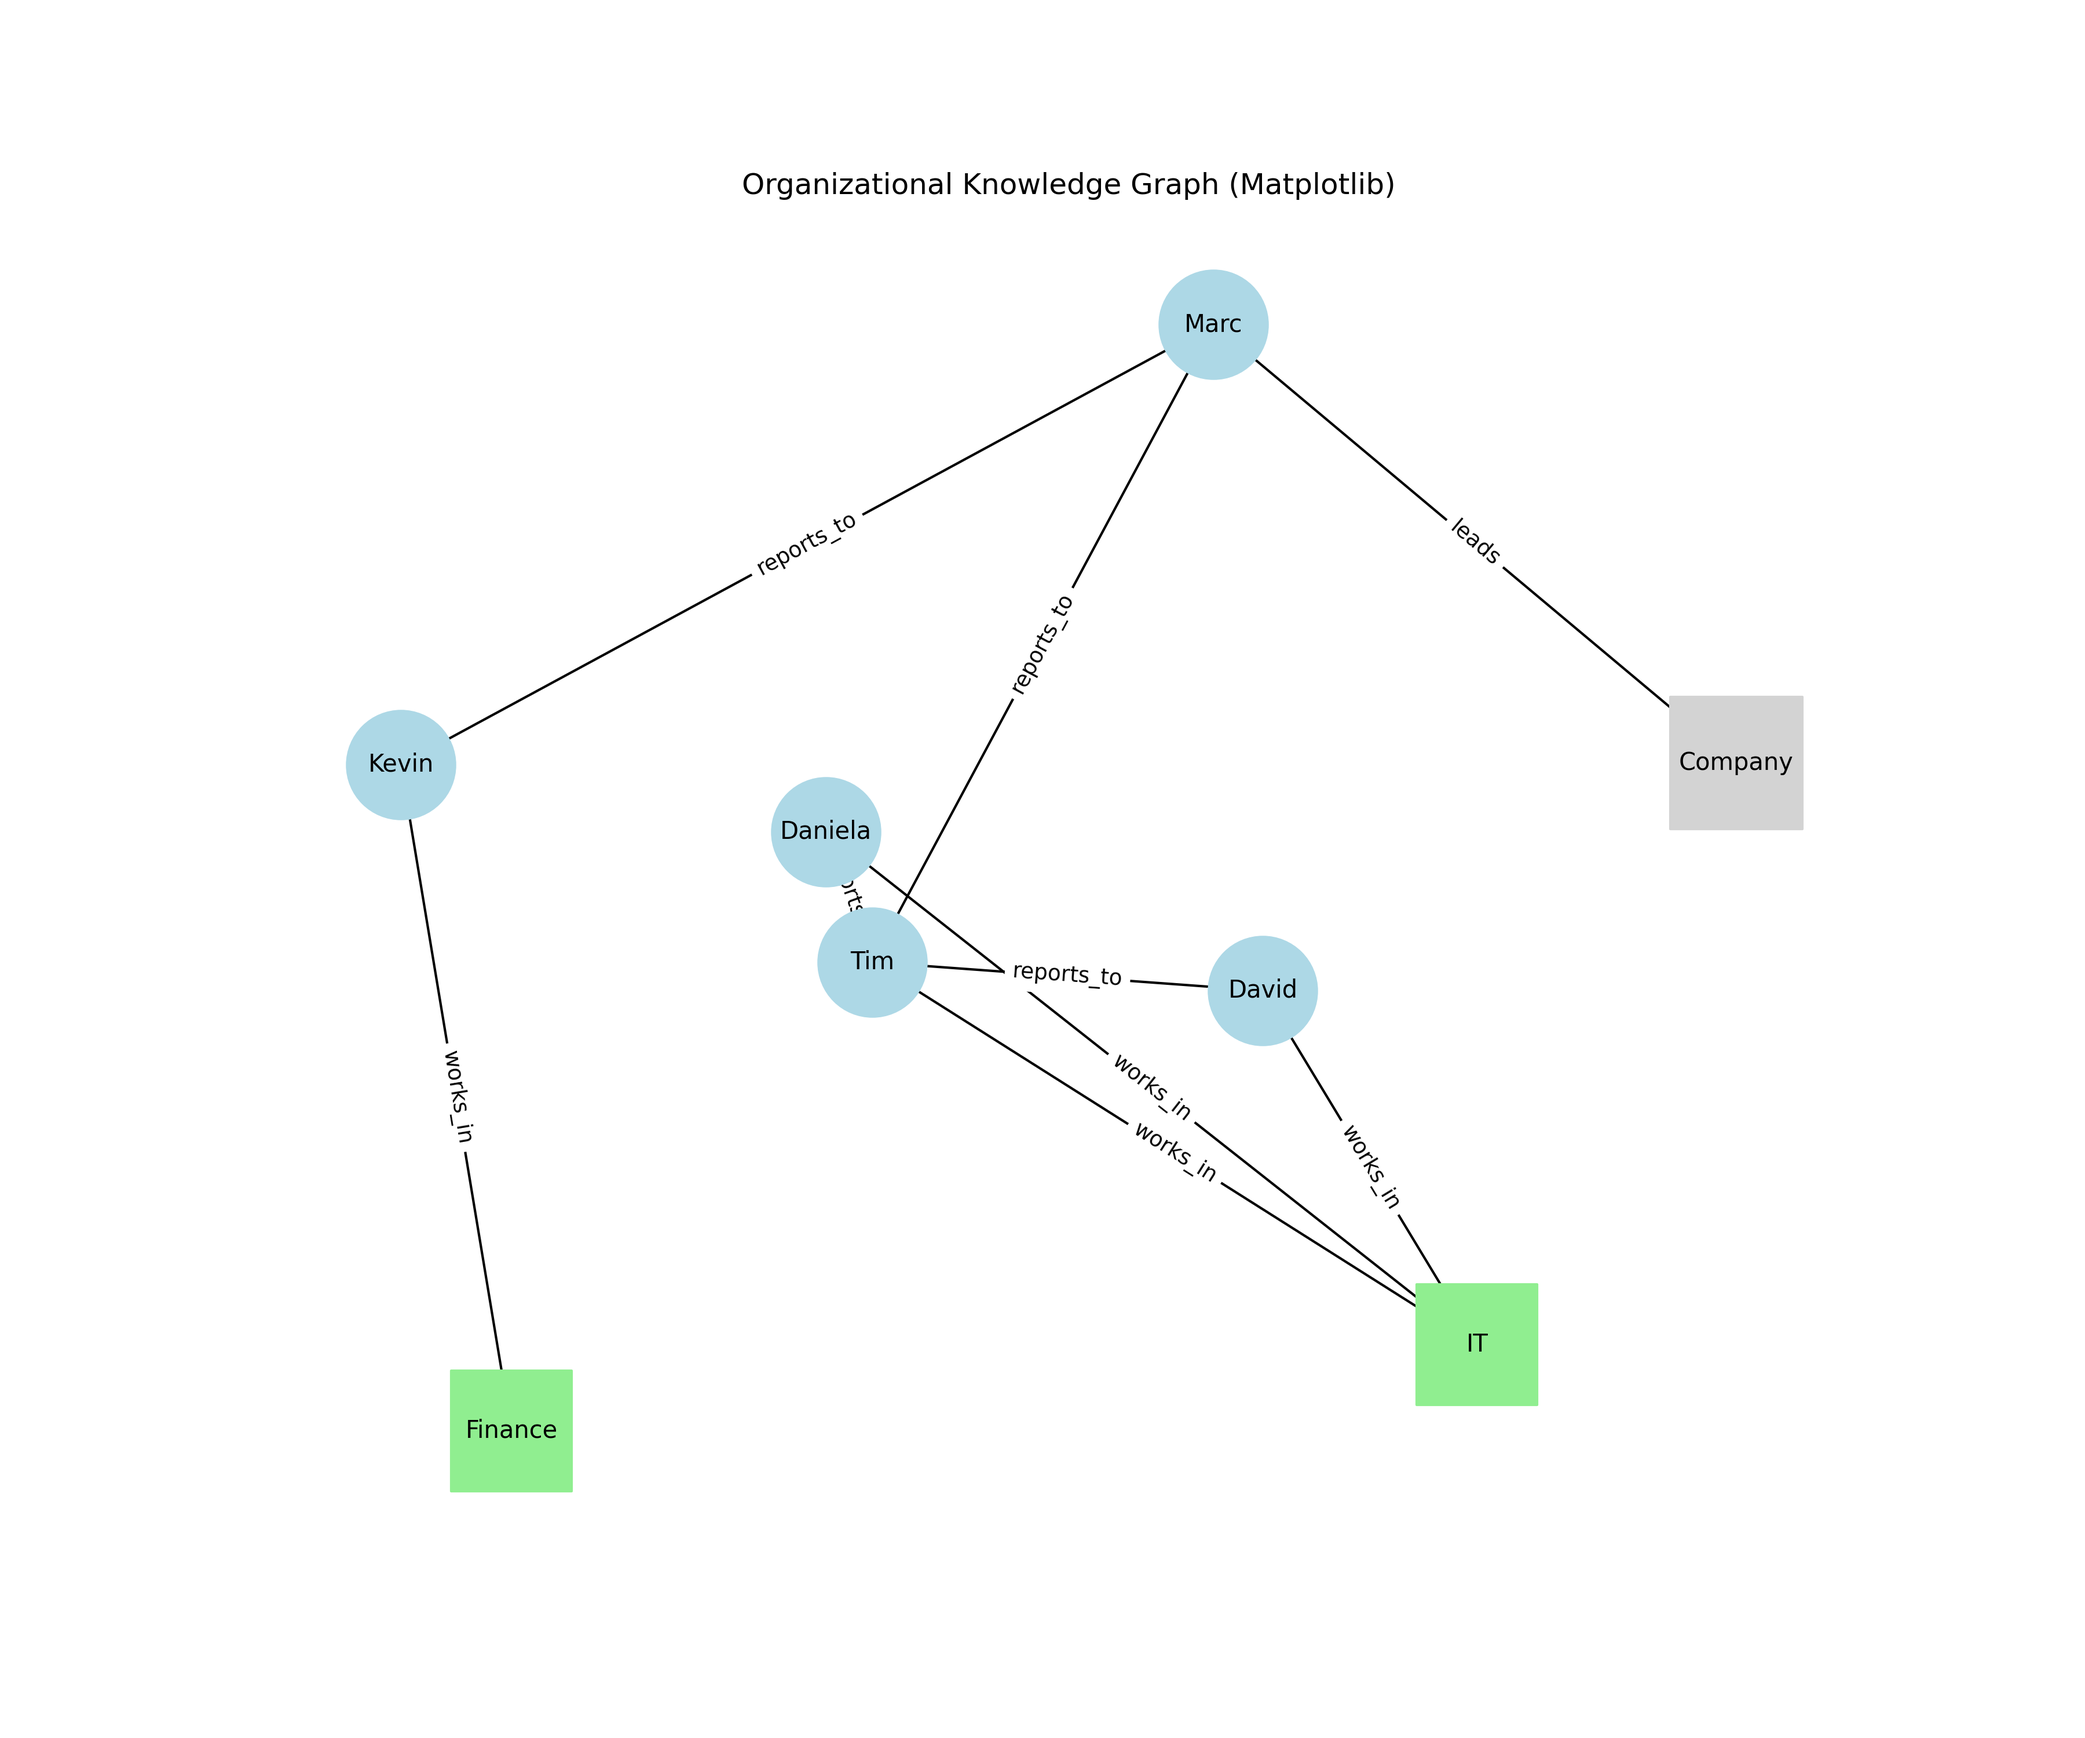
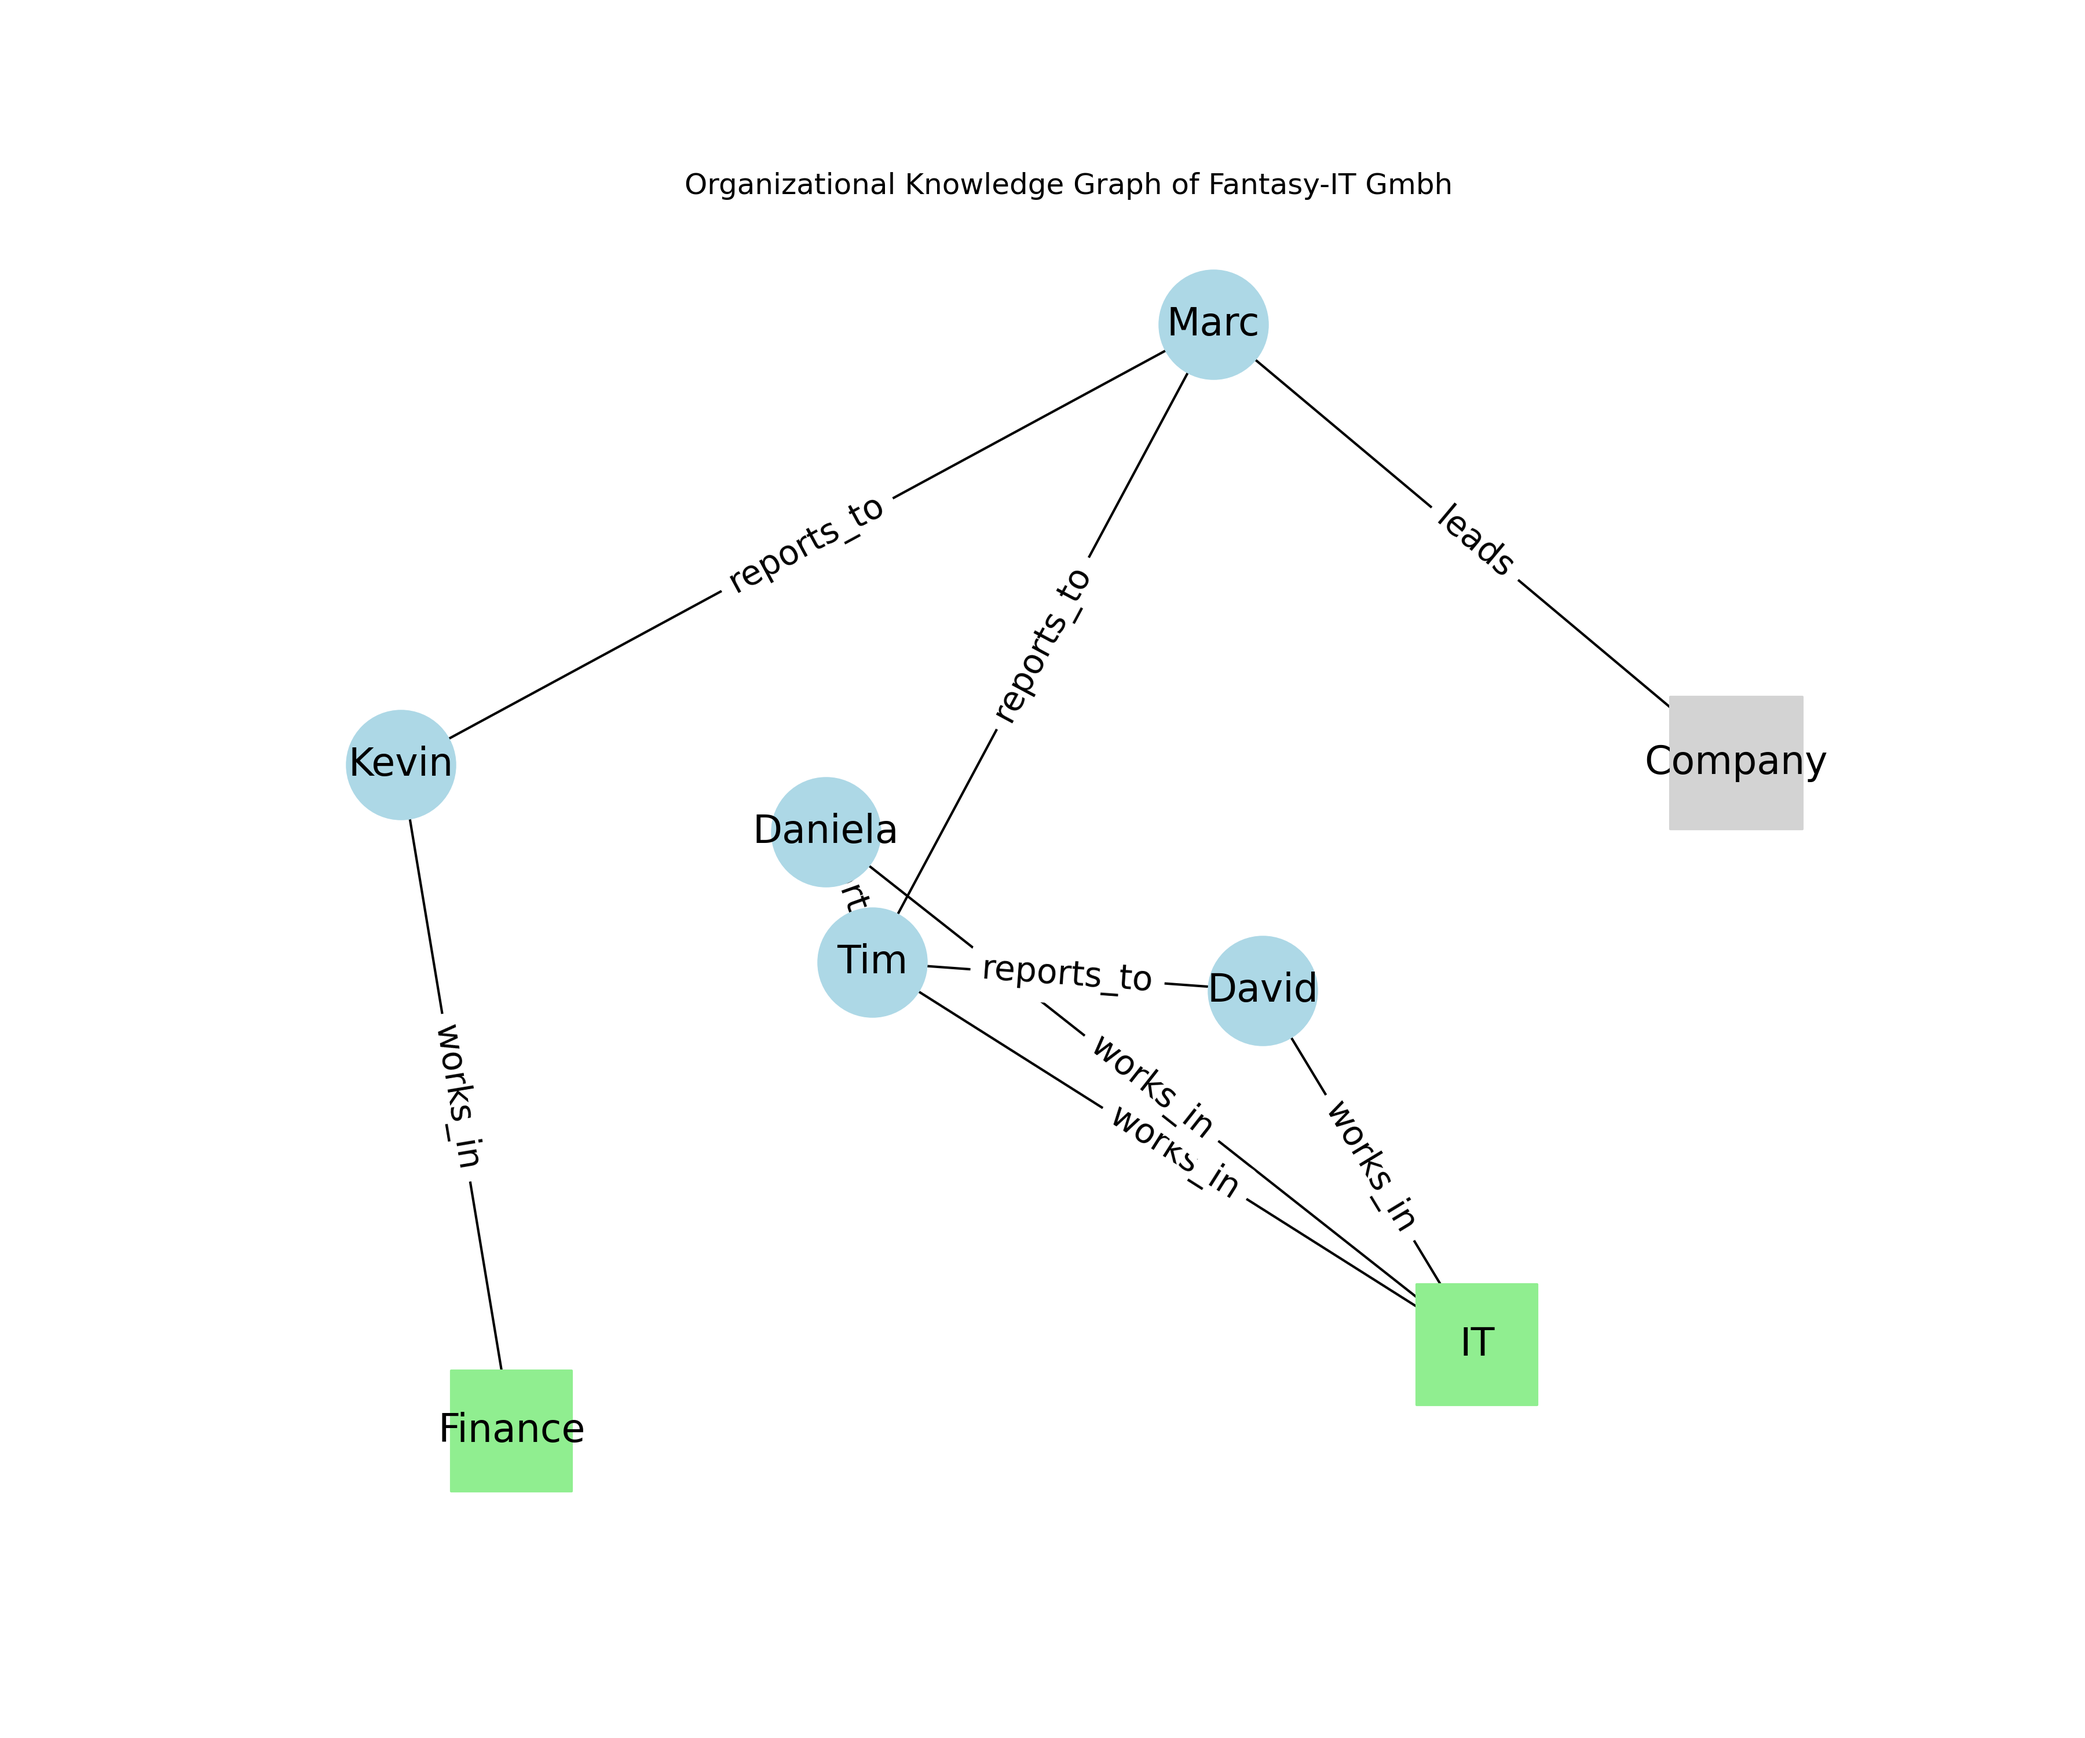
adjust font size

diff --git a/cas-ai/modul02/knowledge-graph/knowledge-graph.py b/cas-ai/modul02/knowledge-graph/knowledge-graph.py
@@ -86,18 +86,18 @@ nx.draw_networkx_nodes(
 nx.draw_networkx_edges(G, pos, arrows=True, arrowstyle="->")
 
 # Labels
-nx.draw_networkx_labels(G, pos, font_size=10)
+nx.draw_networkx_labels(G, pos, font_size=16)
 
 # Kantenbeschriftungen (Relationen)
 edge_labels = nx.get_edge_attributes(G, "relation")
 nx.draw_networkx_edge_labels(
     G, pos,
     edge_labels=edge_labels,
-    font_size=9,
+    font_size=14,
     label_pos=0.5
 )
 
-plt.title("Organizational Knowledge Graph (Matplotlib)")
+plt.title("Organizational Knowledge Graph of Fantasy-IT Gmbh")
 plt.axis("off")
 
 plt.savefig('m02_02_knowledge-graph.png', dpi=300)
